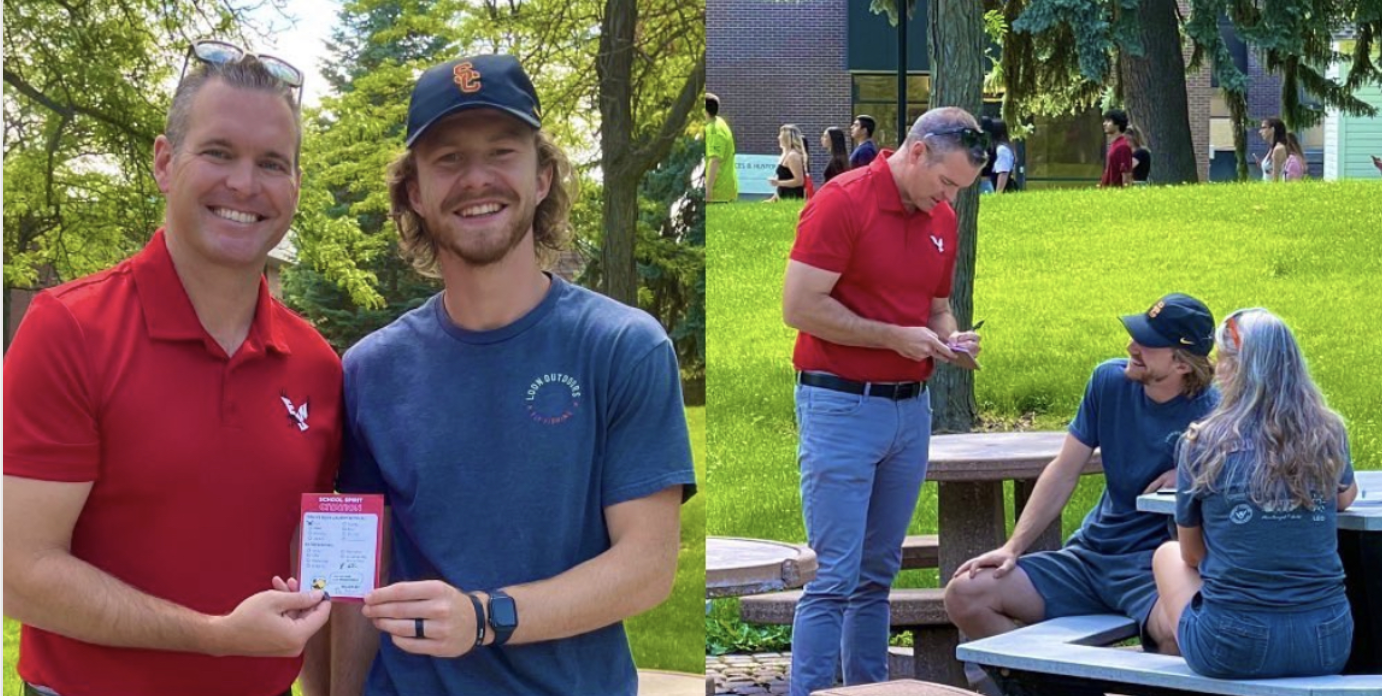
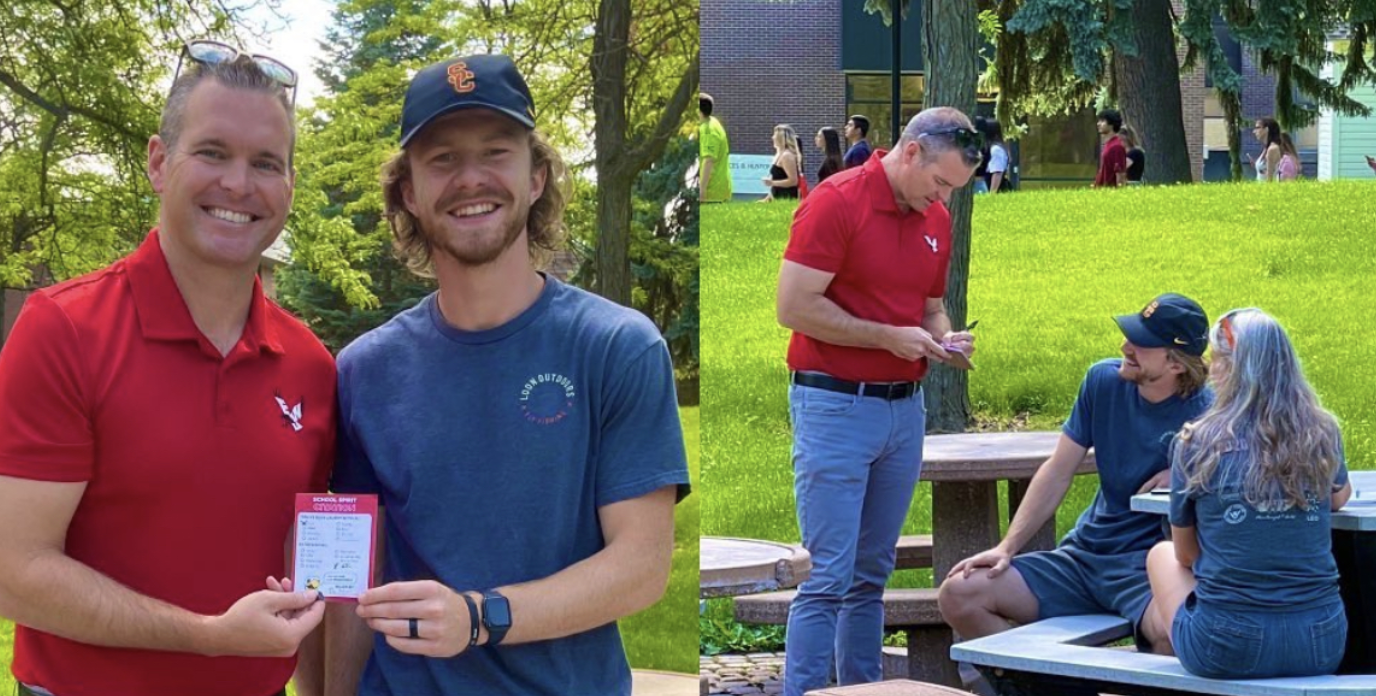
Crop Swoop Citation Photo

diff --git a/style.css b/style.css
@@ -142,6 +142,8 @@ nav a {
 .LB {
   grid-column-start: 1;
   grid-row-start: 2;
+  display: flex;
+  align-items: center;
 }
 
 .R {
@@ -159,6 +161,7 @@ nav a {
 
 #little-alli {
   max-width: 600px;
+
 }
 
 .center-con {
